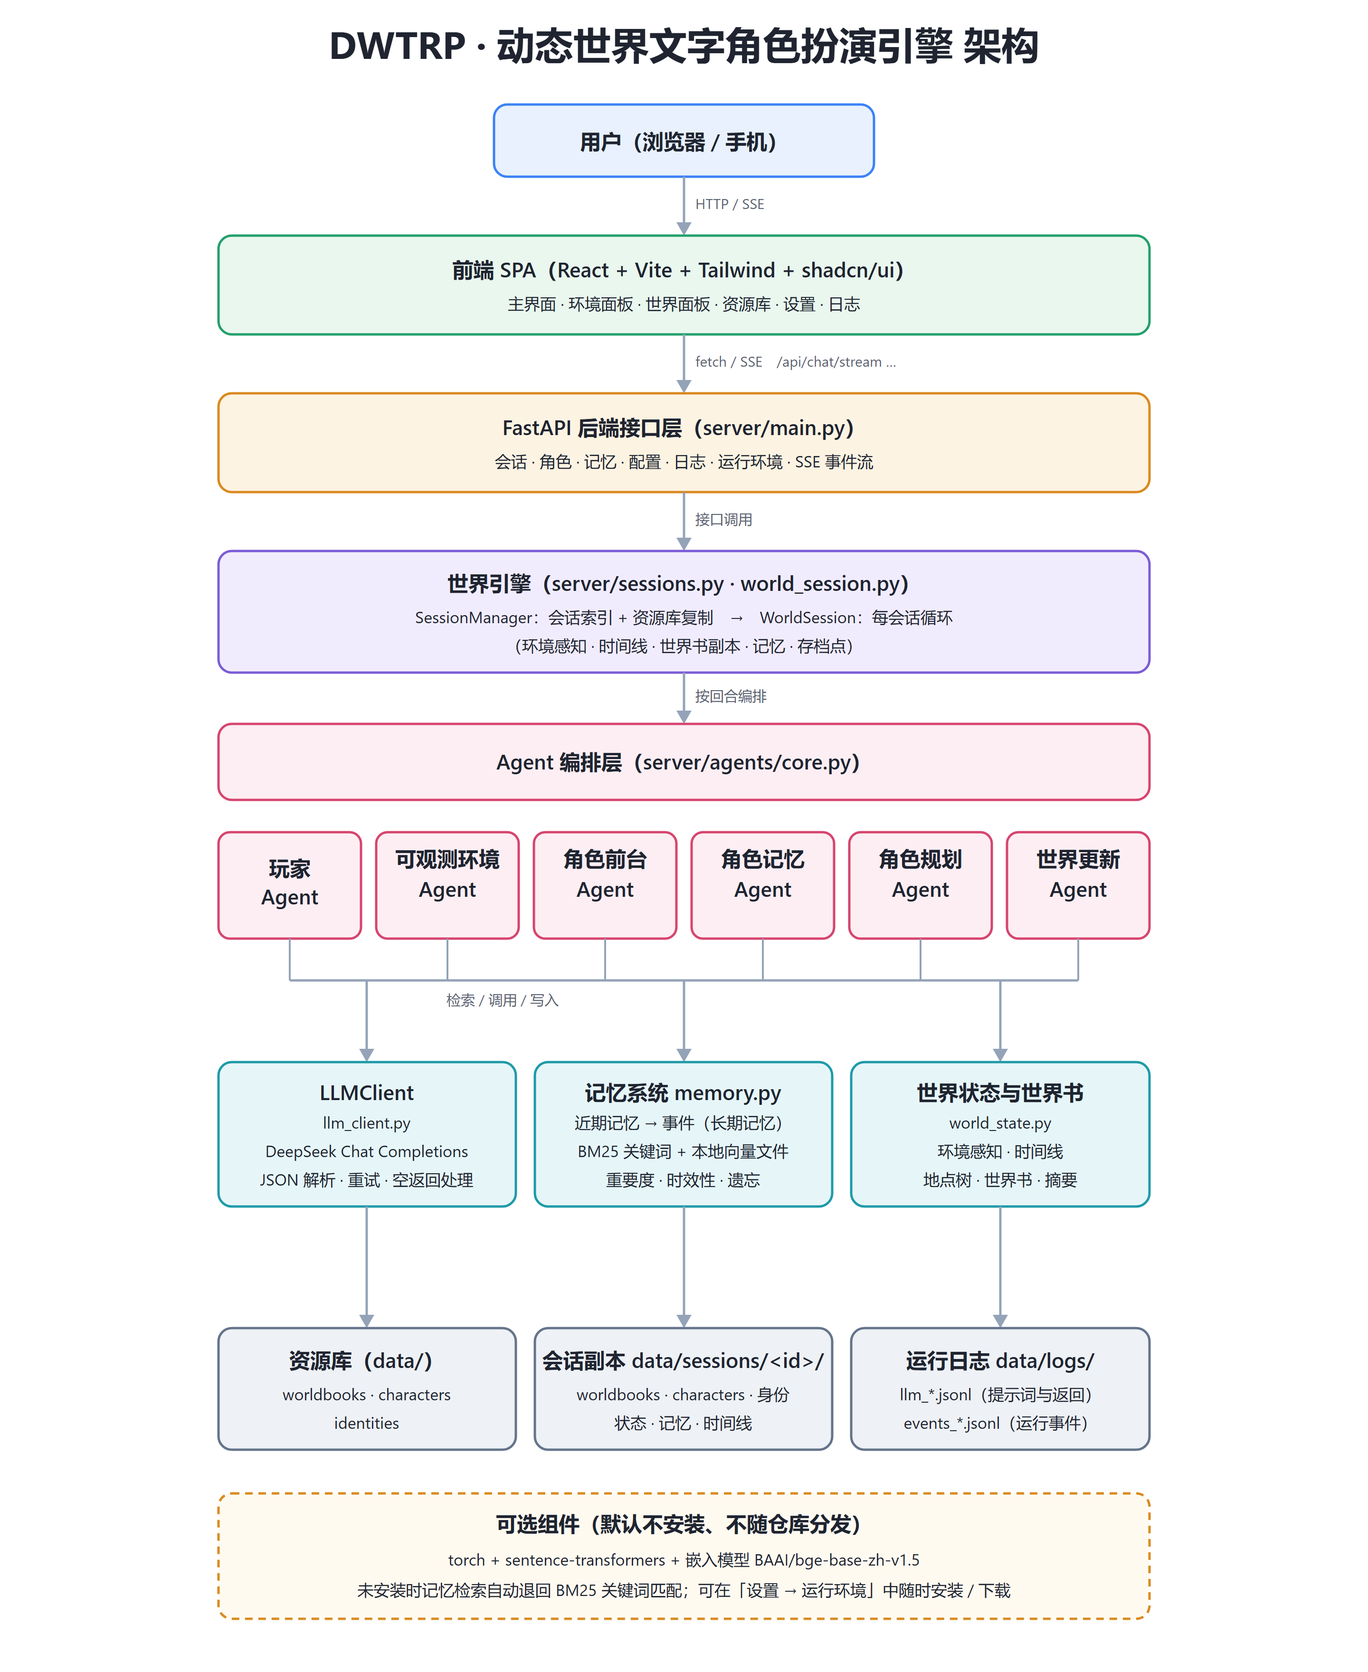
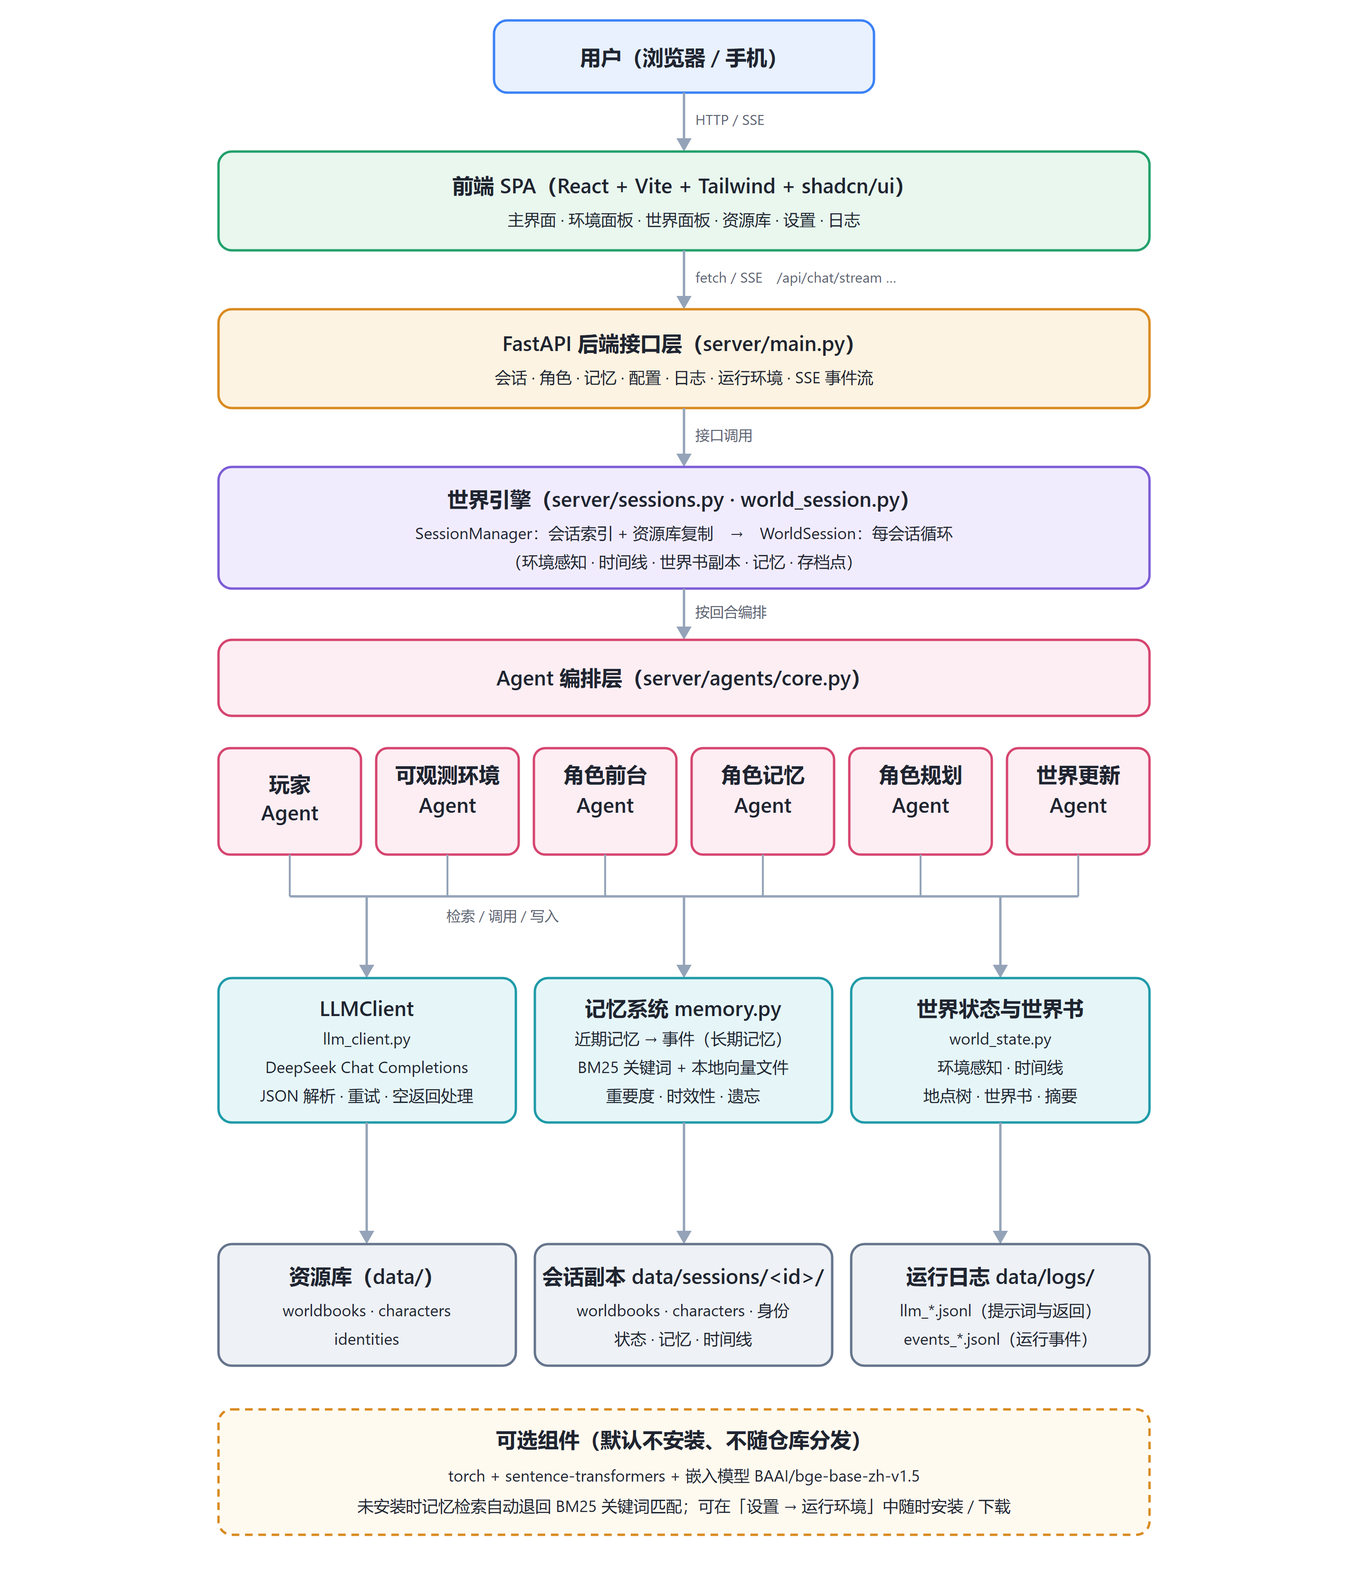
rename project

Changed region(s): [[0.1562, 0.0, 0.8438, 0.7466], [0.1562, 0.7777, 0.8438, 0.8711], [0.25, 0.9022, 0.75, 0.9644]]

diff --git a/web/dist/assets/index-CjJw2kXG.js b/web/dist/assets/index-CjJw2kXG.js
@@ -89,4 +89,4 @@ In order to be iterable, non-array objects must have a [Symbol.iterator]() metho
 
 ----
 
-`):`(无)`}function uee(e,t){let n={turn_done:`✅ 本回合已完成`,environment:`🌐 环境更新`,character:`💬 角色回应`,character_update:`🔄 已更新角色`,world_update:`🌍 世界更新`,memory_summary:`💭 整理/总结记忆`,forget:`🗑 记忆遗忘`,processing:`⏳ 处理中`,hint:`🔔 系统提示`}[e]||e;return e===`turn_done`&&Array.isArray(t.events)&&(n+=`；本回合产出事件类型：${t.events.join(` · `)}`),e===`character_update`&&Array.isArray(t.updated)&&(n+=`：${t.updated.join(`、`)}`),e===`character`&&t.name&&(n+=`：${t.name}`),e===`environment`&&Array.isArray(t.changed)&&(n+=`；变化字段：${t.changed.join(`、`)}`),n||e}function dee({row:e}){let{ts:t,request_id:n,kind:r,...i}=e,[a,o]=(0,v.useState)(!0);return(0,Y.jsxs)(`div`,{className:`space-y-1.5 text-sm`,children:[(0,Y.jsxs)(`button`,{type:`button`,className:`flex w-full items-center gap-2 text-left`,onClick:()=>o(e=>!e),children:[a?(0,Y.jsx)($n,{className:`size-4 shrink-0 text-muted-foreground`}):(0,Y.jsx)(er,{className:`size-4 shrink-0 text-muted-foreground`}),(0,Y.jsx)(Rn,{variant:`outline`,className:`text-[11px]`,children:r}),(0,Y.jsx)(`span`,{className:`text-xs text-muted-foreground`,children:t}),(0,Y.jsxs)(`span`,{className:`text-xs text-muted-foreground`,children:[`#`,n||``]})]}),a&&(0,Y.jsxs)(`div`,{className:`space-y-1 pl-5`,children:[(0,Y.jsx)(`p`,{className:`text-xs text-muted-foreground`,children:uee(r,i)}),(0,Y.jsx)(`pre`,{className:`max-h-40 overflow-y-auto whitespace-pre-wrap rounded-lg bg-muted/40 p-3 text-xs`,children:JSON.stringify(i,null,2)})]})]})}var $9=[[`main`,`主界面`],[`library`,`资源库`],[`settings`,`设置`],[`logs`,`日志`]];function fee({onNew:e}){let t=oa(),n=Ea(),r=async e=>{try{let r=await pi(e);t.setActiveSession(e),r.state&&n.applyState(r.state),await t.loadSessions(),t.setView(`main`)}catch{}};return(0,Y.jsxs)(`div`,{className:`flex h-full flex-col items-center justify-center p-6 text-center`,children:[(0,Y.jsx)(`div`,{className:`text-7xl`,children:`✨`}),(0,Y.jsx)(`h1`,{className:`mt-5 text-2xl font-semibold`,children:`DWTRP`}),(0,Y.jsx)(`p`,{className:`mt-3 max-w-md text-base text-muted-foreground`,children:`从一个已有会话继续，或新建一个会话开始。`}),(0,Y.jsx)(X,{size:`lg`,className:`mt-6 rounded-xl bg-gradient-to-r from-violet-500 to-fuchsia-500 px-6 text-base`,onClick:e,children:`＋ 新建会话`}),t.sessions.length>0&&(0,Y.jsxs)(`div`,{className:`mt-8 w-full max-w-lg space-y-2.5`,children:[(0,Y.jsx)(`div`,{className:`text-sm text-muted-foreground`,children:`已有会话（点击加载）`}),t.sessions.slice(0,8).map(e=>(0,Y.jsxs)(`div`,{className:`cursor-pointer rounded-xl border border-border/60 bg-background/40 px-5 py-3 text-left text-base hover:bg-background/60`,onClick:()=>r(e.id),children:[(0,Y.jsx)(`div`,{className:`font-medium`,children:e.name}),(0,Y.jsxs)(`div`,{className:`mt-0.5 text-xs text-muted-foreground`,children:[e.characters??0,` 角色 · `,(e.worldbooks??[]).length,` 世界书`]})]},e.id))]})]})}function pee(){let e=oa(),t=Pw(e=>e.theme),n=Pw(e=>e.toggle),r=G9(),i=ma(),[a,o]=(0,v.useState)(!1);return(0,v.useEffect)(()=>{pa.getState().refresh(),e.loadSessions().then(e=>{e&&Ea.getState().loadSession()})},[]),(0,v.useEffect)(()=>{document.documentElement.classList.toggle(`dark`,t===`dark`)},[t]),(0,v.useEffect)(()=>{K9(r)},[r.borderAlpha,r.textAlpha]),(0,Y.jsxs)(`div`,{className:Nn(`flex h-dvh flex-col overflow-hidden text-foreground`,t===`dark`?`bg-gradient-to-br from-slate-950 via-[#140a26] to-[#0b0b12]`:`bg-gradient-to-br from-violet-100 via-white to-fuchsia-100`),children:[(0,Y.jsxs)(`header`,{className:`sticky top-0 z-40 flex min-h-14 shrink-0 flex-col border-b border-border/60 bg-background/70 backdrop-blur`,children:[(0,Y.jsxs)(`div`,{className:`flex h-14 shrink-0 items-center gap-2 px-3 md:px-4`,children:[(0,Y.jsx)(`div`,{className:`flex h-9 w-9 shrink-0 items-center justify-center rounded-xl bg-gradient-to-br from-violet-500 to-fuchsia-500 text-lg`,children:`✨`}),(0,Y.jsx)(`span`,{className:`text-sm font-bold tracking-tight md:text-base`,children:`DWTRP`}),(0,Y.jsx)(`nav`,{className:`ml-3 hidden items-center gap-1.5 md:flex`,children:$9.map(([t,n])=>(0,Y.jsxs)(`button`,{onClick:()=>e.setView(t),className:Nn(`flex items-center gap-1 rounded-lg px-3.5 py-1.5 text-[15px] font-medium transition-colors`,e.view===t?`bg-primary/20 text-violet-700 dark:text-violet-200`:`text-muted-foreground hover:bg-background/60`,t===`settings`&&i&&e.view!==t&&`text-amber-600 dark:text-amber-300`),children:[n,t===`settings`&&i&&(0,Y.jsx)(`span`,{className:`flex size-4 items-center justify-center rounded-full bg-amber-500 text-[11px] font-bold text-white`,children:`!`})]},t))}),(0,Y.jsxs)(`div`,{className:`ml-auto flex items-center gap-2`,children:[(0,Y.jsx)(Oa,{onNewSession:()=>o(!0)}),(0,Y.jsx)(X,{variant:`outline`,className:`hidden gap-1.5 md:inline-flex`,onClick:()=>o(!0),children:`＋ 新建会话`}),(0,Y.jsx)(X,{variant:`ghost`,size:`icon`,className:`rounded-full border border-border/60`,onClick:n,title:t===`dark`?`切换浅色模式`:`切换深色模式`,children:t===`dark`?(0,Y.jsx)(xr,{className:`size-5`}):(0,Y.jsx)(fr,{className:`size-5`})})]})]}),(0,Y.jsx)(`nav`,{className:`flex items-center gap-1.5 overflow-x-auto px-2 pb-2 md:hidden`,children:$9.map(([t,n])=>(0,Y.jsxs)(`button`,{onClick:()=>e.setView(t),className:Nn(`flex shrink-0 items-center gap-1 rounded-full px-3 py-1 text-[13px] font-medium transition-colors`,e.view===t?`bg-primary/20 text-violet-700 dark:text-violet-200`:`text-muted-foreground hover:bg-background/60`,t===`settings`&&i&&`text-amber-600 dark:text-amber-300`),children:[n,t===`settings`&&i&&(0,Y.jsx)(`span`,{className:`flex size-4 items-center justify-center rounded-full bg-amber-500 text-[11px] font-bold text-white`,children:`!`})]},t))}),i&&(0,Y.jsxs)(`div`,{className:`flex items-center gap-2 border-t border-amber-500/30 bg-amber-500/10 px-3 py-1.5 text-[13px] text-amber-800 dark:text-amber-100 md:px-4`,children:[(0,Y.jsx)(Cr,{className:`size-4 shrink-0`}),(0,Y.jsx)(`span`,{className:`min-w-0 flex-1 truncate`,children:`尚未配置 DeepSeek API Key：对话、世界更新与记忆总结都无法使用。`}),(0,Y.jsx)(X,{size:`sm`,variant:`outline`,className:`h-7 shrink-0 border-amber-500/50 text-amber-800 hover:bg-amber-500/10 dark:text-amber-100`,onClick:()=>e.openSettings(`connection`),children:`去填写`})]})]}),(0,Y.jsxs)(`section`,{className:`min-h-0 flex-1`,children:[e.view===`main`&&(e.activeSession?(0,Y.jsx)(j9,{}):(0,Y.jsx)(fee,{onNew:()=>o(!0)})),e.view===`library`&&(0,Y.jsx)(R9,{}),e.view===`settings`&&(0,Y.jsx)(aee,{}),e.view===`logs`&&(0,Y.jsx)(see,{})]}),(0,Y.jsx)(Np,{open:a,onClose:()=>{o(!1),e.loadSessions()}}),(0,Y.jsx)(vw,{})]})}(0,y.createRoot)(document.getElementById(`root`)).render((0,Y.jsx)(v.StrictMode,{children:(0,Y.jsx)(pee,{})}));
+`):`(无)`}function uee(e,t){let n={turn_done:`✅ 本回合已完成`,environment:`🌐 环境更新`,character:`💬 角色回应`,character_update:`🔄 已更新角色`,world_update:`🌍 世界更新`,memory_summary:`💭 整理/总结记忆`,forget:`🗑 记忆遗忘`,processing:`⏳ 处理中`,hint:`🔔 系统提示`}[e]||e;return e===`turn_done`&&Array.isArray(t.events)&&(n+=`；本回合产出事件类型：${t.events.join(` · `)}`),e===`character_update`&&Array.isArray(t.updated)&&(n+=`：${t.updated.join(`、`)}`),e===`character`&&t.name&&(n+=`：${t.name}`),e===`environment`&&Array.isArray(t.changed)&&(n+=`；变化字段：${t.changed.join(`、`)}`),n||e}function dee({row:e}){let{ts:t,request_id:n,kind:r,...i}=e,[a,o]=(0,v.useState)(!0);return(0,Y.jsxs)(`div`,{className:`space-y-1.5 text-sm`,children:[(0,Y.jsxs)(`button`,{type:`button`,className:`flex w-full items-center gap-2 text-left`,onClick:()=>o(e=>!e),children:[a?(0,Y.jsx)($n,{className:`size-4 shrink-0 text-muted-foreground`}):(0,Y.jsx)(er,{className:`size-4 shrink-0 text-muted-foreground`}),(0,Y.jsx)(Rn,{variant:`outline`,className:`text-[11px]`,children:r}),(0,Y.jsx)(`span`,{className:`text-xs text-muted-foreground`,children:t}),(0,Y.jsxs)(`span`,{className:`text-xs text-muted-foreground`,children:[`#`,n||``]})]}),a&&(0,Y.jsxs)(`div`,{className:`space-y-1 pl-5`,children:[(0,Y.jsx)(`p`,{className:`text-xs text-muted-foreground`,children:uee(r,i)}),(0,Y.jsx)(`pre`,{className:`max-h-40 overflow-y-auto whitespace-pre-wrap rounded-lg bg-muted/40 p-3 text-xs`,children:JSON.stringify(i,null,2)})]})]})}var $9=[[`main`,`主界面`],[`library`,`资源库`],[`settings`,`设置`],[`logs`,`日志`]];function fee({onNew:e}){let t=oa(),n=Ea(),r=async e=>{try{let r=await pi(e);t.setActiveSession(e),r.state&&n.applyState(r.state),await t.loadSessions(),t.setView(`main`)}catch{}};return(0,Y.jsxs)(`div`,{className:`flex h-full flex-col items-center justify-center p-6 text-center`,children:[(0,Y.jsx)(`div`,{className:`text-7xl`,children:`✨`}),(0,Y.jsx)(`h1`,{className:`mt-5 text-2xl font-semibold`,children:`TRPE`}),(0,Y.jsx)(`p`,{className:`mt-3 max-w-md text-base text-muted-foreground`,children:`从一个已有会话继续，或新建一个会话开始。`}),(0,Y.jsx)(X,{size:`lg`,className:`mt-6 rounded-xl bg-gradient-to-r from-violet-500 to-fuchsia-500 px-6 text-base`,onClick:e,children:`＋ 新建会话`}),t.sessions.length>0&&(0,Y.jsxs)(`div`,{className:`mt-8 w-full max-w-lg space-y-2.5`,children:[(0,Y.jsx)(`div`,{className:`text-sm text-muted-foreground`,children:`已有会话（点击加载）`}),t.sessions.slice(0,8).map(e=>(0,Y.jsxs)(`div`,{className:`cursor-pointer rounded-xl border border-border/60 bg-background/40 px-5 py-3 text-left text-base hover:bg-background/60`,onClick:()=>r(e.id),children:[(0,Y.jsx)(`div`,{className:`font-medium`,children:e.name}),(0,Y.jsxs)(`div`,{className:`mt-0.5 text-xs text-muted-foreground`,children:[e.characters??0,` 角色 · `,(e.worldbooks??[]).length,` 世界书`]})]},e.id))]})]})}function pee(){let e=oa(),t=Pw(e=>e.theme),n=Pw(e=>e.toggle),r=G9(),i=ma(),[a,o]=(0,v.useState)(!1);return(0,v.useEffect)(()=>{pa.getState().refresh(),e.loadSessions().then(e=>{e&&Ea.getState().loadSession()})},[]),(0,v.useEffect)(()=>{document.documentElement.classList.toggle(`dark`,t===`dark`)},[t]),(0,v.useEffect)(()=>{K9(r)},[r.borderAlpha,r.textAlpha]),(0,Y.jsxs)(`div`,{className:Nn(`flex h-dvh flex-col overflow-hidden text-foreground`,t===`dark`?`bg-gradient-to-br from-slate-950 via-[#140a26] to-[#0b0b12]`:`bg-gradient-to-br from-violet-100 via-white to-fuchsia-100`),children:[(0,Y.jsxs)(`header`,{className:`sticky top-0 z-40 flex min-h-14 shrink-0 flex-col border-b border-border/60 bg-background/70 backdrop-blur`,children:[(0,Y.jsxs)(`div`,{className:`flex h-14 shrink-0 items-center gap-2 px-3 md:px-4`,children:[(0,Y.jsx)(`div`,{className:`flex h-9 w-9 shrink-0 items-center justify-center rounded-xl bg-gradient-to-br from-violet-500 to-fuchsia-500 text-lg`,children:`✨`}),(0,Y.jsx)(`span`,{className:`text-sm font-bold tracking-tight md:text-base`,children:`TRPE`}),(0,Y.jsx)(`nav`,{className:`ml-3 hidden items-center gap-1.5 md:flex`,children:$9.map(([t,n])=>(0,Y.jsxs)(`button`,{onClick:()=>e.setView(t),className:Nn(`flex items-center gap-1 rounded-lg px-3.5 py-1.5 text-[15px] font-medium transition-colors`,e.view===t?`bg-primary/20 text-violet-700 dark:text-violet-200`:`text-muted-foreground hover:bg-background/60`,t===`settings`&&i&&e.view!==t&&`text-amber-600 dark:text-amber-300`),children:[n,t===`settings`&&i&&(0,Y.jsx)(`span`,{className:`flex size-4 items-center justify-center rounded-full bg-amber-500 text-[11px] font-bold text-white`,children:`!`})]},t))}),(0,Y.jsxs)(`div`,{className:`ml-auto flex items-center gap-2`,children:[(0,Y.jsx)(Oa,{onNewSession:()=>o(!0)}),(0,Y.jsx)(X,{variant:`outline`,className:`hidden gap-1.5 md:inline-flex`,onClick:()=>o(!0),children:`＋ 新建会话`}),(0,Y.jsx)(X,{variant:`ghost`,size:`icon`,className:`rounded-full border border-border/60`,onClick:n,title:t===`dark`?`切换浅色模式`:`切换深色模式`,children:t===`dark`?(0,Y.jsx)(xr,{className:`size-5`}):(0,Y.jsx)(fr,{className:`size-5`})})]})]}),(0,Y.jsx)(`nav`,{className:`flex items-center gap-1.5 overflow-x-auto px-2 pb-2 md:hidden`,children:$9.map(([t,n])=>(0,Y.jsxs)(`button`,{onClick:()=>e.setView(t),className:Nn(`flex shrink-0 items-center gap-1 rounded-full px-3 py-1 text-[13px] font-medium transition-colors`,e.view===t?`bg-primary/20 text-violet-700 dark:text-violet-200`:`text-muted-foreground hover:bg-background/60`,t===`settings`&&i&&`text-amber-600 dark:text-amber-300`),children:[n,t===`settings`&&i&&(0,Y.jsx)(`span`,{className:`flex size-4 items-center justify-center rounded-full bg-amber-500 text-[11px] font-bold text-white`,children:`!`})]},t))}),i&&(0,Y.jsxs)(`div`,{className:`flex items-center gap-2 border-t border-amber-500/30 bg-amber-500/10 px-3 py-1.5 text-[13px] text-amber-800 dark:text-amber-100 md:px-4`,children:[(0,Y.jsx)(Cr,{className:`size-4 shrink-0`}),(0,Y.jsx)(`span`,{className:`min-w-0 flex-1 truncate`,children:`尚未配置 DeepSeek API Key：对话、世界更新与记忆总结都无法使用。`}),(0,Y.jsx)(X,{size:`sm`,variant:`outline`,className:`h-7 shrink-0 border-amber-500/50 text-amber-800 hover:bg-amber-500/10 dark:text-amber-100`,onClick:()=>e.openSettings(`connection`),children:`去填写`})]})]}),(0,Y.jsxs)(`section`,{className:`min-h-0 flex-1`,children:[e.view===`main`&&(e.activeSession?(0,Y.jsx)(j9,{}):(0,Y.jsx)(fee,{onNew:()=>o(!0)})),e.view===`library`&&(0,Y.jsx)(R9,{}),e.view===`settings`&&(0,Y.jsx)(aee,{}),e.view===`logs`&&(0,Y.jsx)(see,{})]}),(0,Y.jsx)(Np,{open:a,onClose:()=>{o(!1),e.loadSessions()}}),(0,Y.jsx)(vw,{})]})}(0,y.createRoot)(document.getElementById(`root`)).render((0,Y.jsx)(v.StrictMode,{children:(0,Y.jsx)(pee,{})}));

diff --git a/web/src/App.tsx b/web/src/App.tsx
@@ -38,7 +38,7 @@ function SessionLanding({ onNew }: { onNew: () => void }) {
   return (
     <div className="flex h-full flex-col items-center justify-center p-6 text-center">
       <div className="text-7xl">✨</div>
-      <h1 className="mt-5 text-2xl font-semibold">DWTRP</h1>
+      <h1 className="mt-5 text-2xl font-semibold">TRPE</h1>
       <p className="mt-3 max-w-md text-base text-muted-foreground">
         从一个已有会话继续，或新建一个会话开始。
       </p>
@@ -96,7 +96,7 @@ export default function App() {
       <header className="sticky top-0 z-40 flex min-h-14 shrink-0 flex-col border-b border-border/60 bg-background/70 backdrop-blur">
         <div className="flex h-14 shrink-0 items-center gap-2 px-3 md:px-4">
           <div className="flex h-9 w-9 shrink-0 items-center justify-center rounded-xl bg-gradient-to-br from-violet-500 to-fuchsia-500 text-lg">✨</div>
-          <span className="text-sm font-bold tracking-tight md:text-base">DWTRP</span>
+          <span className="text-sm font-bold tracking-tight md:text-base">TRPE</span>
           <nav className="ml-3 hidden items-center gap-1.5 md:flex">
             {TABS.map(([v, label]) => (
               <button key={v} onClick={() => shell.setView(v)}

diff --git a/web/dist/index.html b/web/dist/index.html
@@ -4,7 +4,7 @@
     <meta charset="UTF-8" />
     <link rel="icon" type="image/svg+xml" href="/favicon.svg" />
     <meta name="viewport" content="width=device-width, initial-scale=1.0" />
-    <title>Dynamic World Text Role-Playing Engine</title>
+    <title>TRPE</title>
     <script type="module" crossorigin src="/assets/index-CjJw2kXG.js"></script>
     <link rel="stylesheet" crossorigin href="/assets/index-BREjGFEE.css">
   </head>

diff --git a/web/index.html b/web/index.html
@@ -4,7 +4,7 @@
     <meta charset="UTF-8" />
     <link rel="icon" type="image/svg+xml" href="/favicon.svg" />
     <meta name="viewport" content="width=device-width, initial-scale=1.0" />
-    <title>Dynamic World Text Role-Playing Engine</title>
+    <title>TRPE</title>
   </head>
   <body>
     <div id="root"></div>

diff --git a/scripts/setup_env.py b/scripts/setup_env.py
@@ -1,7 +1,7 @@
 """
 环境准备（一键安装依赖）
 ===========================
-DWTRP 的必需依赖很轻（FastAPI + BM25 检索，见 requirements.txt）；
+TRPE 的必需依赖很轻（FastAPI + BM25 检索，见 requirements.txt）；
 向量检索所需的 torch / sentence-transformers 与嵌入模型是**可选组件**，
 本脚本会先装必需依赖，再询问是否安装可选组件。
 
@@ -10,7 +10,7 @@ DWTRP 的必需依赖很轻（FastAPI + BM25 检索，见 requirements.txt）；
     python scripts/setup_env.py --check             # 只检查当前环境，不做任何改动
     python scripts/setup_env.py --yes               # 非交互：只装必需依赖（跳过可选组件）
     python scripts/setup_env.py --embedding --download-model   # 连可选组件一起装好
-    python scripts/setup_env.py --venv D:\\envs\\dwtrp          # 指定虚拟环境目录
+    python scripts/setup_env.py --venv D:\\envs\\TRPE          # 指定虚拟环境目录
     python scripts/setup_env.py --pip-index https://pypi.tuna.tsinghua.edu.cn/simple
 
 Windows 用户通常直接双击 `setup.bat`；macOS / Linux 用 `./setup.sh`。
@@ -168,7 +168,7 @@ def check(py: str) -> None:
 
 
 def main() -> int:
-    parser = argparse.ArgumentParser(description="DWTRP 环境准备")
+    parser = argparse.ArgumentParser(description="TRPE 环境准备")
     parser.add_argument("--venv", default=DEFAULT_VENV, help=f"虚拟环境目录（默认 {DEFAULT_VENV}）")
     parser.add_argument("--no-venv", action="store_true", help="不创建虚拟环境，直接用当前解释器")
     parser.add_argument("--embedding", action="store_true", help="安装可选依赖 torch + sentence-transformers")
@@ -180,7 +180,7 @@ def main() -> int:
     args = parser.parse_args()
 
     say("=" * 62)
-    say(" DWTRP 环境准备")
+    say(" TRPE 环境准备")
     say("=" * 62)
 
     py = sys.executable if args.no_venv else venv_python(args.venv)

diff --git a/server/main.py b/server/main.py
@@ -61,7 +61,7 @@ async def lifespan(app: FastAPI):
     yield
 
 
-app = FastAPI(title="DWTRP", version="0.3.0", lifespan=lifespan)
+app = FastAPI(title="TRPE", version="0.3.0", lifespan=lifespan)
 app.add_middleware(
     CORSMiddleware,
     allow_origins=CONFIG["SERVER_CORS_ORIGINS"],
@@ -1283,7 +1283,7 @@ if os.path.isdir(_DIST):
 
 
 def main():
-    parser = argparse.ArgumentParser(description="DWTRP 后端服务")
+    parser = argparse.ArgumentParser(description="TRPE 后端服务")
     parser.add_argument("--mock", action="store_true", help="离线模式，不调用真实 LLM")
     parser.add_argument("--host", default=CONFIG["SERVER_HOST"])
     parser.add_argument("--port", type=int, default=CONFIG["SERVER_PORT"])

diff --git a/README.md b/README.md
@@ -1,6 +1,6 @@
-# DWTRP · 动态世界文字角色扮演引擎
+# TRPE · 动态世界文字角色扮演引擎
 
-**Dynamic World Text Role-Playing** —— 一个以玩家为核心、多 Agent 协作的动态世界文字角色扮演引擎。
+**Text Role-Playing Engine(TRPE)** —— 一个以玩家为核心、多 Agent 协作的动态世界文字角色扮演引擎。
 
 *A player-centric, multi-agent collaborative dynamic-world text role-playing engine.*
 
@@ -107,10 +107,10 @@ setup.bat     :: 创建 .venv、安装必需依赖，并询问是否安装向量
 start.bat     :: 启动后端并自动打开浏览器（必要时先构建前端）
 ```
 
-`start.bat` 会依次寻找解释器：环境变量 `DWTRP_PYTHON` → 项目内 `.venv` → `py -3` → `PATH` 中的 `python`。也就是说：**只要你已经有一个 Python ≥ 3.11 的环境，把它指给 `DWTRP_PYTHON` 就能直接启动**，不需要再建虚拟环境：
+`start.bat` 会依次寻找解释器：环境变量 `TRPE_PYTHON` → 项目内 `.venv` → `py -3` → `PATH` 中的 `python`。也就是说：**只要你已经有一个 Python ≥ 3.11 的环境，把它指给 `TRPE_PYTHON` 就能直接启动**，不需要再建虚拟环境：
 
 ```bat
-set DWTRP_PYTHON=D:\Python\.venv\Scripts\python.exe
+set TRPE_PYTHON=D:\Python\.venv\Scripts\python.exe
 start.bat
 ```
 
@@ -282,7 +282,7 @@ DEEPSEEK_API_KEY=sk-xxxxxxxxxxxxxxxx
 ## 目录结构
 
 ```text
-DWTRP/
+TRPE/
 ├── README.md                     # 本文档
 ├── docs/
 │   ├── architecture.png          # 系统架构图
